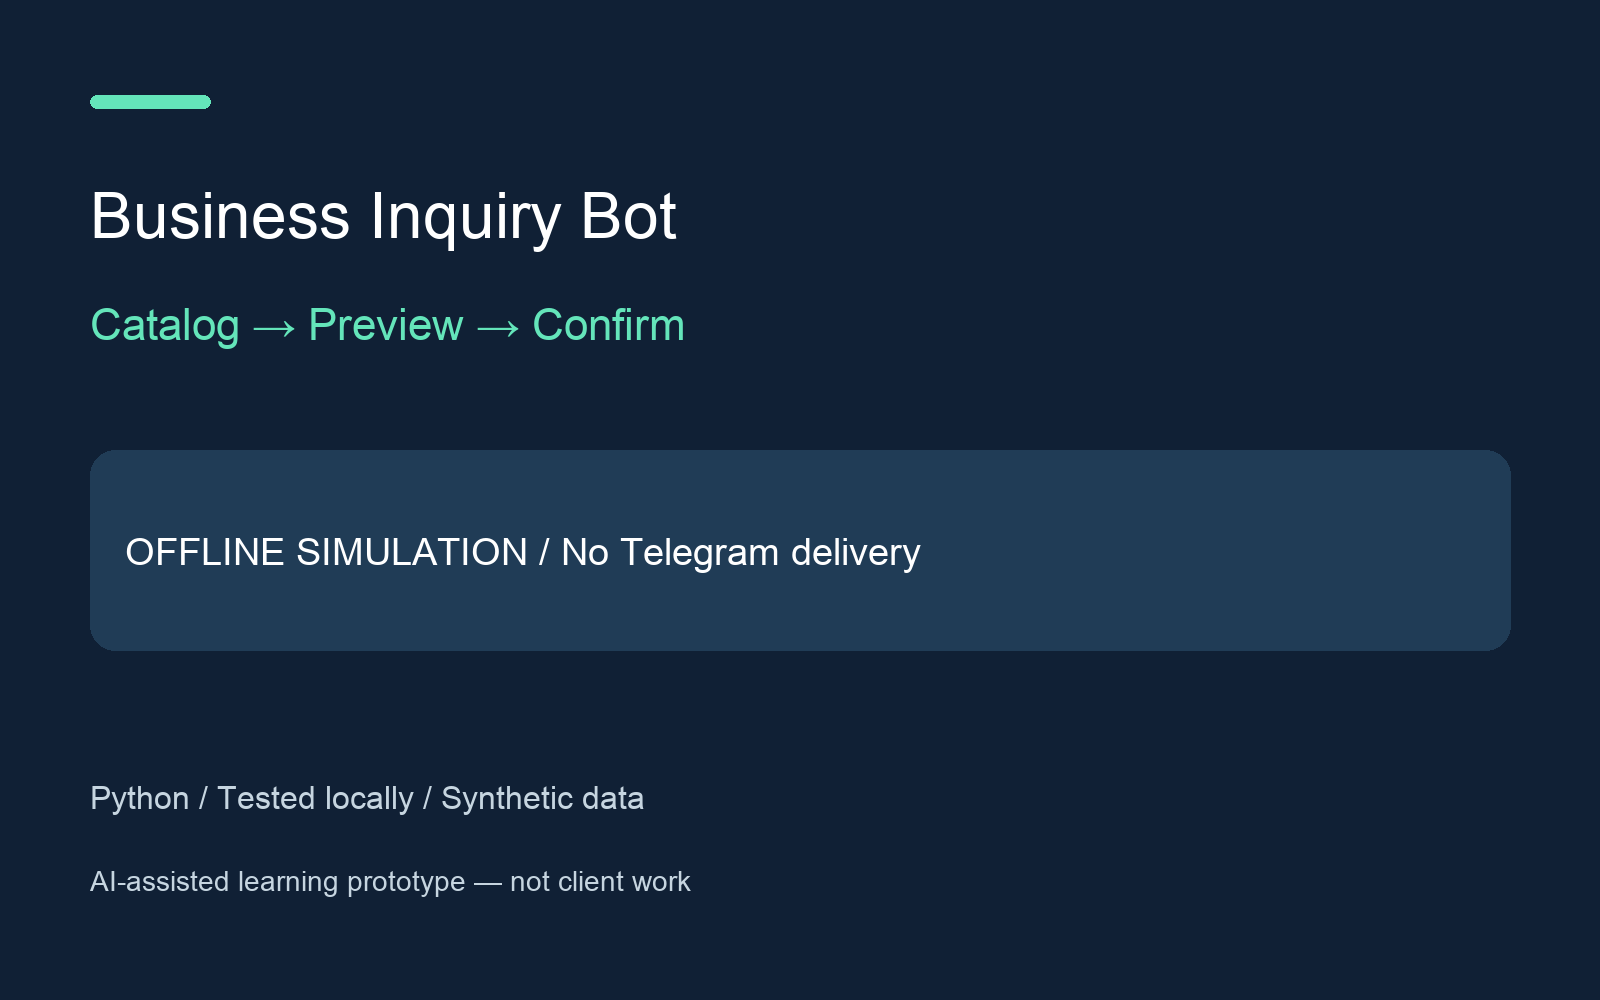
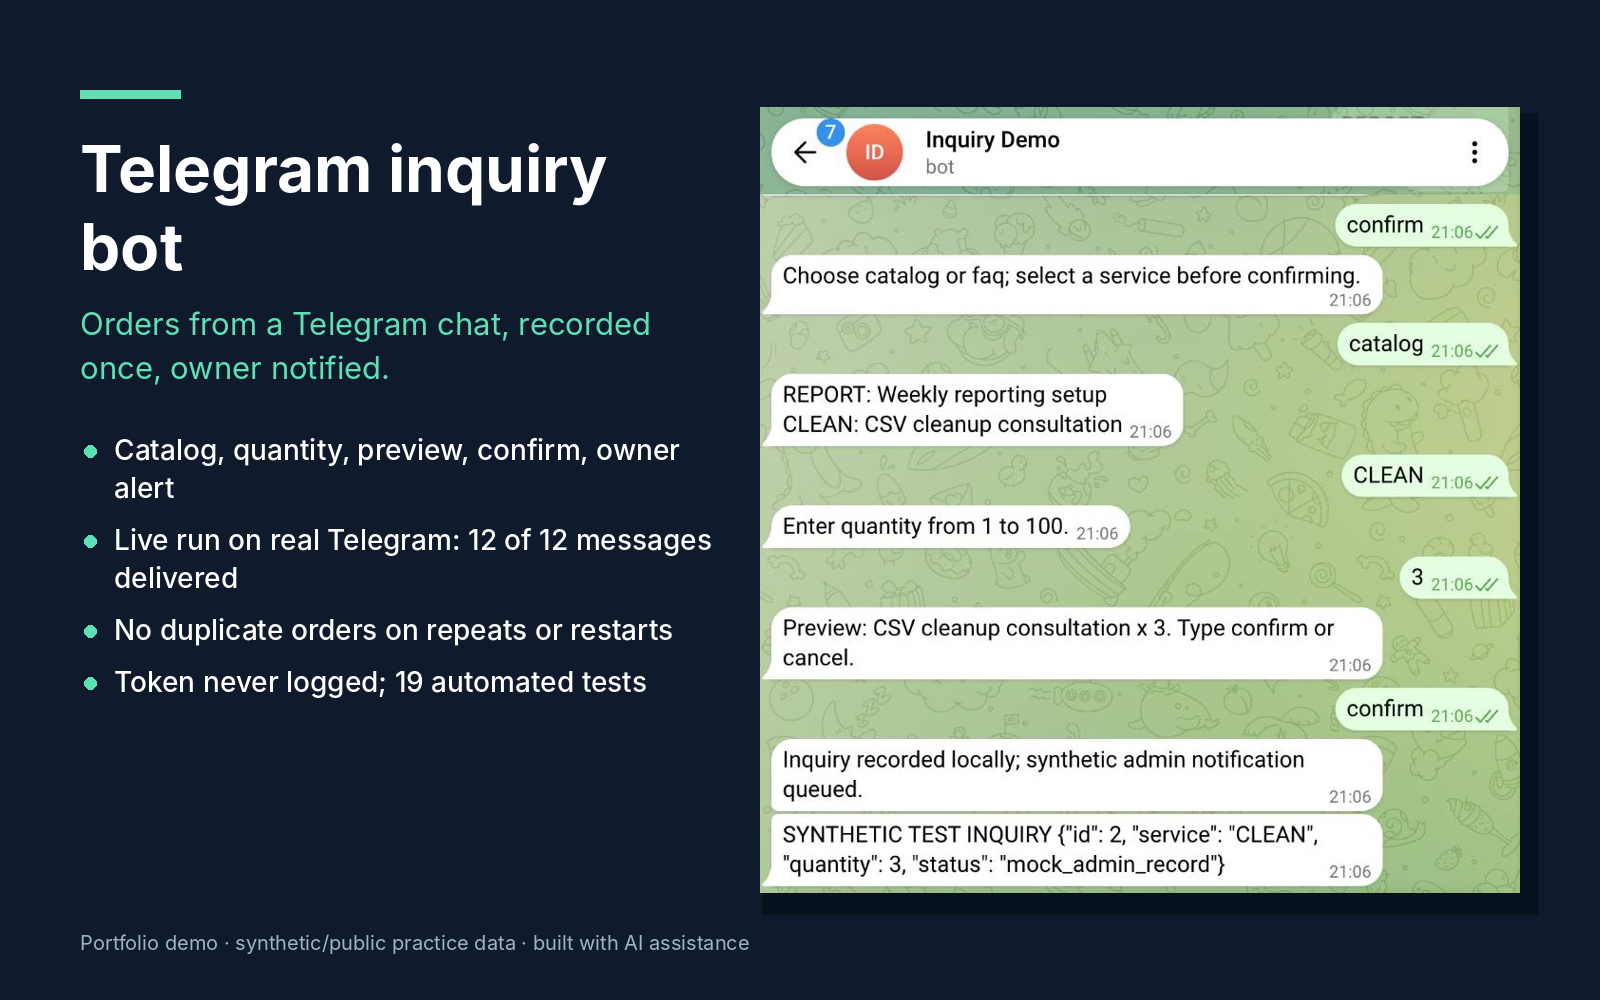
Live Telegram run evidence, client-first README, new cover
Claude-Session: https://claude.ai/code/session_01RBh2FWbAKLhXtWCpcTRA3a

diff --git a/README.md b/README.md
@@ -1,12 +1,41 @@
-![Project cover](cover.png)
+![Telegram inquiry bot](cover.png)
 
-# Business Inquiry Bot — offline development demo
+# Telegram inquiry bot with a safe delivery log
 
-A small service-catalog conversation that gathers a quantity, previews an inquiry and records it only after confirmation. The mock administrator log stays in process memory. AI-assisted learning project; synthetic services; no client work or performance claims.
+A small business bot: the customer picks a service from the catalog, enters a quantity, sees a preview and confirms. The inquiry is recorded once and the owner gets a notification in Telegram. Built so that a crash or a repeated message never creates duplicate orders or double sends.
 
-**Status: OFFLINE SIMULATION. No Telegram bot is connected and no messages are sent.** This package is development evidence, not a live Telegram case study.
+<img src="evidence/live-telegram-chat.jpg" alt="Live conversation with the bot" width="420">
 
-## Run
+## Live run on real Telegram (15.11.2026)
+
+Dedicated test bot, real Telegram Bot API ([full log](evidence/live-telegram-run.md)):
+
+- full flow: catalog → service → quantity → preview → confirm → owner notification;
+- a second `confirm` did **not** create a duplicate inquiry;
+- 12 messages delivered, 0 left in an unknown state, every update processed exactly once.
+
+## What makes it reliable
+
+- **Every update is stored before replying** (SQLite), so a restart never answers the same message twice.
+- **Outbox with states:** a message is marked *uncertain* before sending and *delivered* after; after a crash the bot stops and asks for a check instead of blindly resending.
+- **Recipient allowlist:** the bot can only write to approved chats.
+- **Secrets stay secret:** the token is read from the environment and never printed or logged; HTTP errors are redacted; redirects are disabled.
+- **19 automated tests**, including a crash right after Telegram accepts a message: `python3 -m unittest discover -v`.
+
+## Run it
+
+```sh
+python3 bot.py                          # offline simulator in the terminal, no Telegram needed
+export TELEGRAM_BOT_TOKEN=...           # token of a dedicated test bot
+python3 live_once.py --live --test-chat <your chat id> --admin-chat <your chat id>
+```
+
+Standard library only. The same structure fits order intake, booking requests, lead capture or support triage; a production version would add a long-running poller or webhook and real storage of inquiries (CRM, Google Sheets).
+
+<details>
+<summary>Technical details and limits (for developers)</summary>
+
+### Offline simulator
 
 Python 3.12, standard library only, no pip requirements:
 
@@ -18,36 +47,37 @@ python3 -m unittest discover -v
 
 Type `catalog`, `REPORT` or `CLEAN`, a quantity from 1 to 100, then `confirm`. `faq` preserves the current selection; `cancel` or `/start` resets it. Selecting a new service discards the previous draft. Repeating confirm after a successful submission adds no second log entry. `quit` prints the mock log. `examples/expected-transcript.txt` is actual output from the supplied conversation.
 
-## Architecture and limits
+### Architecture and limits
 
 `Bot.reply(session, text)` separates conversation logic from transport; sessions are independent. `telegram_payload` accepts private text Update-shaped dictionaries and returns sendMessage-shaped parameters. This mapping makes no HTTP calls. Offline simulator state disappears on exit; the separate real transport and persistent runner are described below. This is a single-process local demo with no production concurrency or durability guarantees. Never enter personal data in this demonstration.
 
-Future real testing requires secure token provisioning, owner-approved test recipients and authorization for a live test. The local simulator does not read environment credentials. No credential was created or read, and no API request was made. Official API: https://core.telegram.org/bots/api
+Future real testing requires secure token provisioning, owner-approved test recipients and authorization for a live test. The local simulator does not read environment credentials. Official API: https://core.telegram.org/bots/api
 
 `evidence/current-tests.txt` shows current local checks; `evidence/review-final.md` records the review. `cover.png` is a portfolio concept cover, and `evidence/transcript.png` renders an actual offline transcript, not a Telegram screenshot.
 
-## Real transport code — no live verification
+### Real transport
 
 `telegram_transport.py` provides getMe/getUpdates/sendMessage via the fixed HTTPS Telegram host. It disables redirects/proxies, limits responses, redacts transport errors and requires an explicit recipient allowlist. Tests inject fake responses: no network or valid credentials.
 
-`recovery.py` transactionally stores dialogue state, processed update IDs and an outbox in SQLite. Duplicate updates are ignored across restarts. `live_once.py` requires `--live` and explicit test/admin chat IDs; it performs one poll of up to 20 updates. No live invocation has occurred. SQLite errors stop cleanly without a traceback. Uncertain previous deliveries block all network calls.
+`recovery.py` transactionally stores dialogue state, processed update IDs and an outbox in SQLite. Duplicate updates are ignored across restarts. `live_once.py` requires `--live` and explicit test/admin chat IDs; it performs one poll of up to 20 updates. A live run was made on 15.11.2026 (see evidence/live-telegram-run.md). SQLite errors stop cleanly without a traceback. Uncertain previous deliveries block all network calls.
 
 Outgoing messages are marked uncertain before sending, and delivered after success. Failures or crashes may leave uncertainty, including a crash before sending. There is no automatic resend: reconcile with the recipient before proceeding. Exactly-once remote delivery is not guaranteed. Use only one runner on a dedicated test bot without a webhook or another poller. getUpdates advances the bot-wide update stream, even for chats this demo ignores; never use a shared production bot.
 
 Persistent state includes synthetic messages, chat IDs, processed IDs and outbox records, not tokens. It remains until manually removed. The live runner creates files with restrictive umask; do not package state databases. Trusted stable local filesystem and one process only. No automatic retention cleanup, production deployment or automated uncertainty resolution.
 
-## Minimal authorization for E2E
+### Minimal authorization for E2E
 
 Select an existing dedicated test bot, or separately approve creating one. Confirm its identity and absence of other pollers/webhooks. Approve the exact private test and admin chats (they may be the same owner-controlled chat), then approve secure token provisioning. Never paste a token into conversation. Each recipient must first start the bot. No group-admin privileges, payments or broadcast permissions are required.
 
 Only after confirmation authorize getMe and bounded polling/replies for this synthetic sequence: catalog, REPORT, 2, confirm, repeat confirm, restart and check no duplicate inquiry. Keep redacted evidence of test identity, timestamps, received messages and restart behavior. Basic methods here do not request paid broadcast features. Local tests do not prove actual delivery.
 
-## Repository status
-
-Public learning portfolio project with synthetic fixtures. AI-assisted development. No private client data, live credentials or production state are included. No client outcomes or revenue claims. Tests are local checks, not proof of live service integration.
-
-## Verified send/status failure boundary
+### Verified send/status failure boundary
 
 The outbox commits `uncertain` before calling sendMessage. If the remote accepts a message but the subsequent `delivered` write fails, the persisted state stays uncertain. On restart the runner stops before any API call; the delivery routine never selects uncertain rows for automatic resend. Two regression tests cover an actual SQLite trigger abort on the final status update and abrupt child-process exit after fake remote acceptance. Both use synthetic local doubles, not Telegram.
 
 This deliberately favors manual reconciliation over blind retries. It cannot establish whether an uncertain message reached Telegram and does not promise exactly-once delivery, power-loss durability or safe concurrent runners. Review with the intended recipient before any manual state change. Do not reset the database merely to retry.
+
+</details>
+
+---
+Portfolio demo with synthetic services, built with AI assistance. No real customers or payments.

diff --git a/evidence/live-telegram-run.md b/evidence/live-telegram-run.md
@@ -1,0 +1,23 @@
+# Live Telegram run — 2026-11-15
+
+Real Telegram Bot API, dedicated test bot `@dmitry_inquiry_demo_bot`, one owner-controlled private chat used as both the test chat and the admin chat.
+The token was read from a local file on the owner's machine and never printed. No webhook was set; one runner only.
+
+Runner: `live_once.py --live --test-chat <id> --admin-chat <id>`, one bounded poll per call, called after each message
+(`TELEGRAM_USE_ENV_PROXY=1`, because that machine reaches the internet only through a proxy).
+
+Conversation (Telegram Web, screenshot `live-telegram-chat.jpg`):
+
+| You | Bot |
+|---|---|
+| /start | Choose catalog or faq. This is a synthetic test workflow. |
+| catalog | REPORT: Weekly reporting setup / CLEAN: CSV cleanup consultation |
+| REPORT → 2 | Enter quantity… → Preview: Weekly reporting setup x 2. Type confirm or cancel. |
+| confirm | Inquiry recorded locally; synthetic admin notification queued. + admin message `SYNTHETIC TEST INQUIRY {"id": 1, …}` |
+| confirm (again) | Choose catalog or faq; select a service before confirming. — **no duplicate inquiry** |
+| catalog → CLEAN → 3 → confirm | Preview … x 3 → recorded, admin message `{"id": 2, "service": "CLEAN", "quantity": 3}` |
+
+Outbox after the run: 12 messages `delivered`, 0 `uncertain`; 10 updates processed, each exactly once.
+The first four messages were sent before the runner was polling, so their replies arrived together; from "confirm (again)" on, each message was answered right away.
+
+Not covered by this run: restart in the middle of a send, groups, several runners, load.

diff --git a/PORTFOLIO-DRAFT.md b/PORTFOLIO-DRAFT.md
@@ -1,7 +1,5 @@
-# Business Inquiry Bot
+# Telegram inquiry bot with a safe delivery log
 
-A catalog-to-inquiry workflow with quantity validation, preview, explicit confirmation and a mock administrator log.
+Catalog → quantity → preview → confirm → owner notification, with every update stored before replying, an outbox that marks sends uncertain/delivered, and a recipient allowlist.
 
-AI-assisted learning demonstration using synthetic data. Development mode only: offline Telegram simulation, no real delivery. Includes source, runnable examples, test-first evidence and documented limitations. Not client work. No commercial results claimed.
-
-Publication gate: finish authorized real integration testing before describing this as a live Telegram bot. Current wording may only describe a prototype.
+Live run on real Telegram with a dedicated test bot on 15.11.2026: full flow, no duplicate on repeated confirm, 12 messages delivered, 0 uncertain (evidence/live-telegram-run.md). 19 automated tests. Portfolio demo with synthetic services, built with AI assistance; not client work. Single runner, polling only; no groups, payments or load testing.
